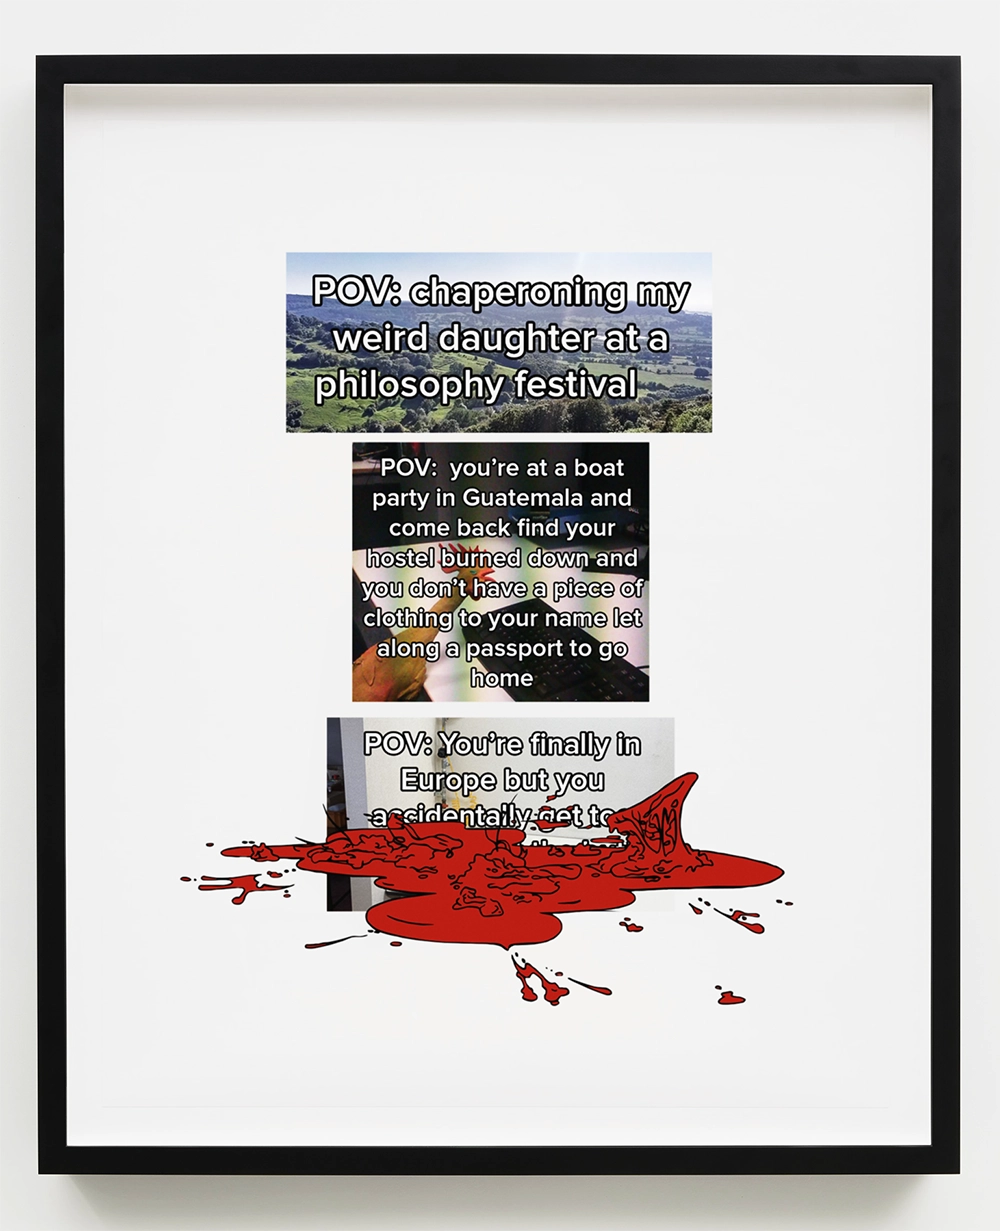
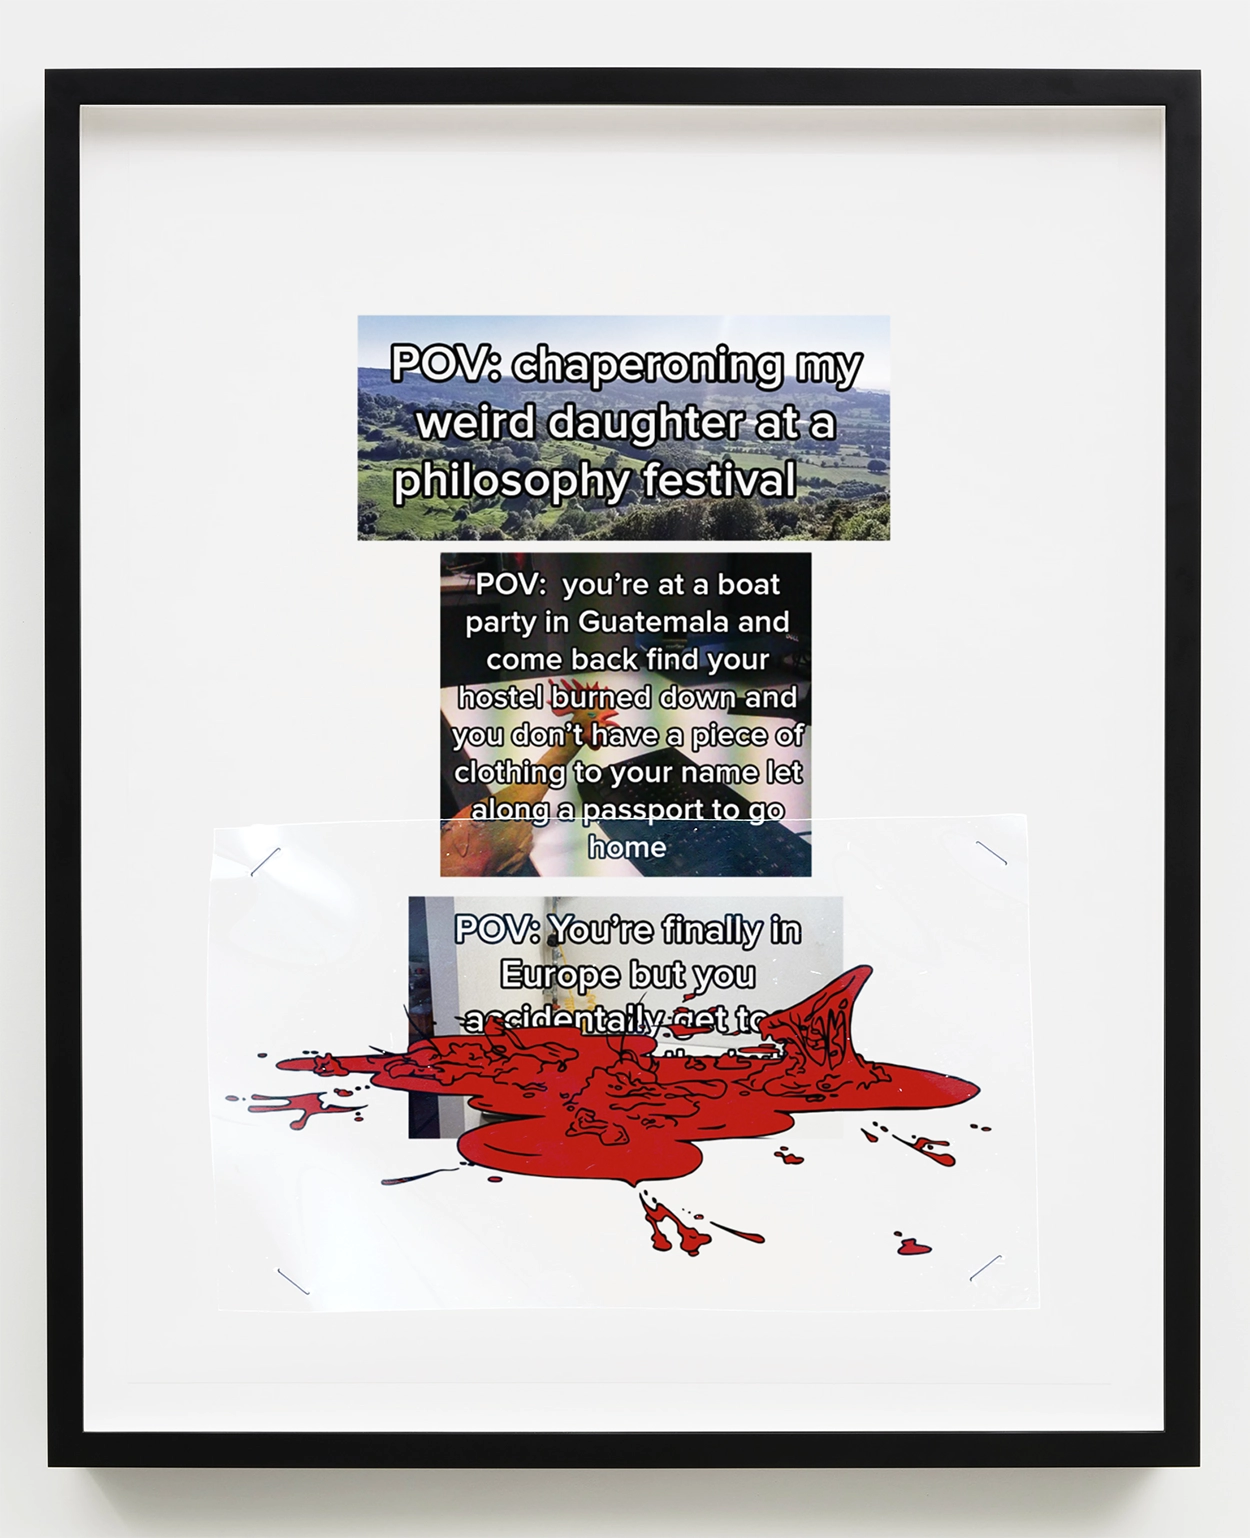
emoji for writing

diff --git a/_site/writing/index.html b/_site/writing/index.html
@@ -18,11 +18,11 @@
 <div id="posts-container">
 <ul>
 
-        <li>Oct 2, 2023 - <a href="/blog/post-3/">Universals to seem in on it</a></li>
+        <li>Oct 2, 2023 - <a href="/blog/post-3/">Universals to seem in on it</a> </li>
 
-        <li>Sep 7, 2023 - <a href="/blog/post-2/">Here is what happens</a></li>
+        <li>Sep 7, 2023 - <a href="/blog/post-2/">Here is what happens</a> </li>
 
-        <li>Sep 5, 2023 - <a href="/blog/post-1/">Guter Rat</a></li>
+        <li>Sep 5, 2023 - <a href="/blog/post-1/">Guter Rat</a> ❤</li>
 
 </ul>
 </div></main>

diff --git a/_site/index.html b/_site/index.html
@@ -16,7 +16,7 @@
     <main> 
       <figure>
 <a href="/assets/images/POV_large.webp"><img src="/assets/images/POV_large.webp" alt="POV" id="halo"></a>
-<figcaption>"Untitled," 2023. Inkjet print, acrylic paint and celloloid on paper</figcaption>
+<figcaption>"Untitled," 2023. Inkjet print, acrylic paint, celluloid and staples on paper</figcaption>
 </figure>
 <hr>
 <p><a href="assets/images/2.jpg"><img src="assets/images/2.jpg" alt="2.jpg"></a>

diff --git a/src/index.md b/src/index.md
@@ -6,7 +6,7 @@ tags: page
 
 <figure>
 <a href="/assets/images/POV_large.webp"><img src="/assets/images/POV_large.webp" alt="POV" id="halo"></a>
-<figcaption>"Untitled," 2023. Inkjet print, acrylic paint and celloloid on paper</figcaption>
+<figcaption>"Untitled," 2023. Inkjet print, acrylic paint, celluloid and staples on paper</figcaption>
 </figure>
 
 ***

diff --git a/src/blog/post-1.md b/src/blog/post-1.md
@@ -1,5 +1,6 @@
 ---
 title: Guter Rat
+emo: ❤
 layout: base
 tags: post
 date: 2023-09-05
